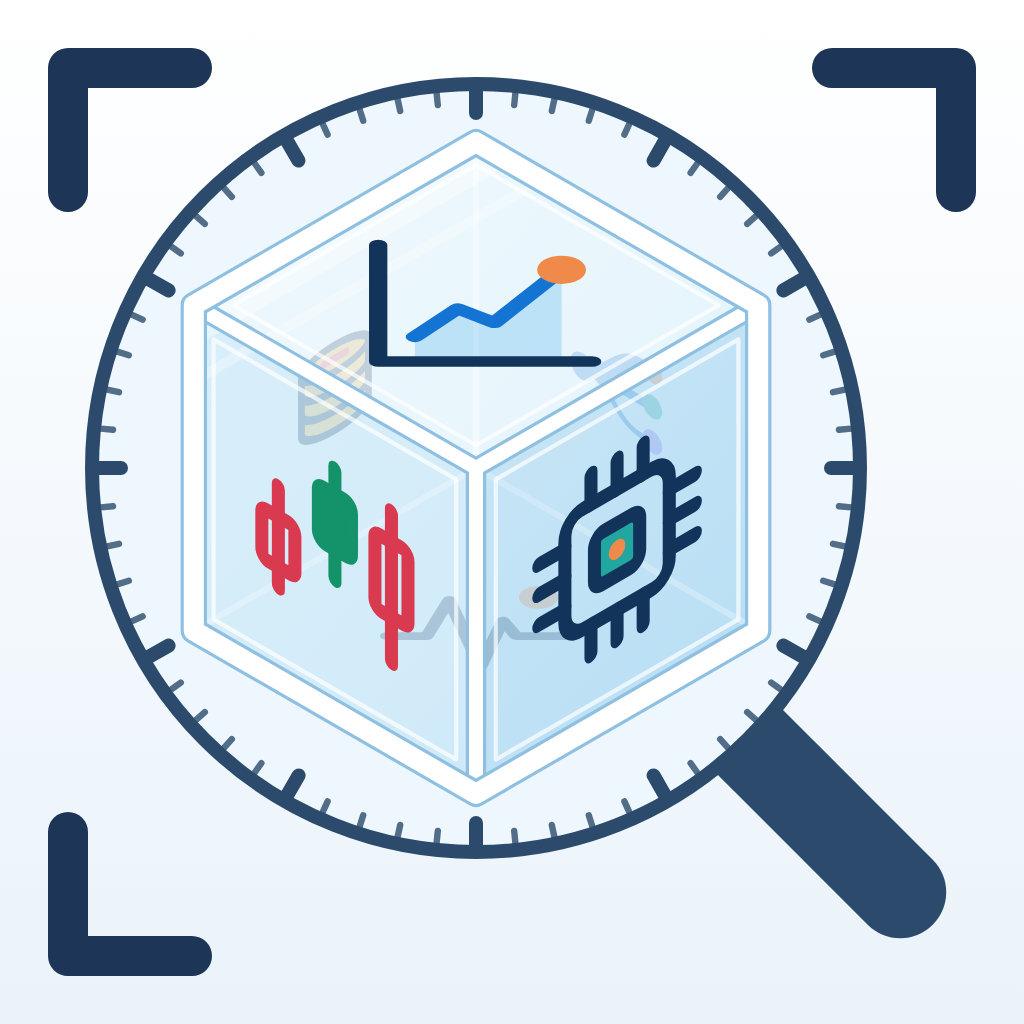
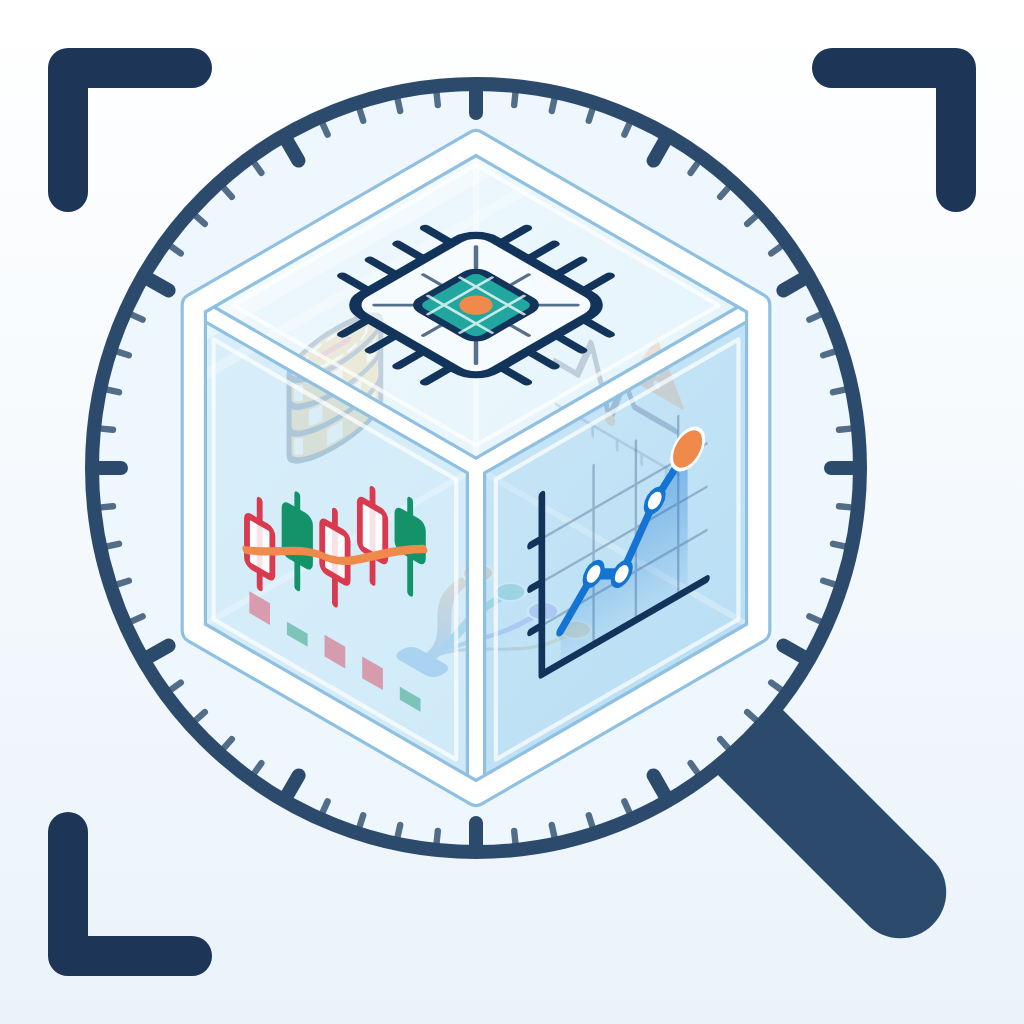
行銷：第十七輪〈股立方〉立方轉正、刻度圈當鏡片＋同色把手、外框同內部稜線風格、面位置互換、貼面角度校正、細節版圖示（滿版）
Claude-Session: https://claude.ai/code/session_012KwvcGV2Non4TXRandryJJ

Changed region(s): [[0.2188, 0.2188, 0.6875, 0.6875]]

diff --git a/docs/brand/v17/_gen.py b/docs/brand/v17/_gen.py
@@ -8,8 +8,9 @@ import math, os, importlib.util
 HERE = os.path.dirname(os.path.abspath(__file__))
 _spec = importlib.util.spec_from_file_location('v16', os.path.join(HERE, '..', 'v16', '_gen.py'))
 v16 = importlib.util.module_from_spec(_spec); _spec.loader.exec_module(v16)   # v16 → v15 → v14 → v13，都只載入函式
-Cube, pts, shrink, hexagon, glyph, place = v16.Cube, v16.pts, v16.shrink, v16.hexagon, v16.glyph, v16.place
-FRONT, BACK = v16.FRONT, v16.BACK   # 上＝基本、左＝技術、右＝產業；背面：左上＝籌碼、右上＝資金、底＝事件（配色同 v15）
+Cube, pts, shrink, hexagon = v16.Cube, v16.pts, v16.shrink, v16.hexagon
+GLY = v16.v15.GLY            # 配色延用 v15（藍 #1474d3、橘 #f08a4b、青綠 #22a6a0、紫 #7b6cf0、金 #e7b04a、紅漲綠跌）
+NAVY = GLY['ink']
 
 # ---------- 規格（512 畫布；PNG 輸出 1024 = 2 倍）----------
 W = 512
@@ -44,6 +45,106 @@ def defs(u):
     return '<defs>' + ''.join(d) + '</defs>'
 
 
+
+# ---------- 細節版六面圖示（第十七輪，只用在立方上；v13 的 line／badge 不動）----------
+# 一樣畫在 24×24 格子，由貼面的 matrix() 整組仿射變形，所以細節會跟著面一起斜。
+# 線寬寫在每個元素上（格子單位）：主線 1.5、細節 0.5～1.1。
+def _band(cx, y0, rx, ry, t, a0, a1, k=10):
+    top = [(cx - rx*math.cos(a0 + (a1-a0)*i/k), y0 + ry*math.sin(a0 + (a1-a0)*i/k)) for i in range(k+1)]
+    return 'M' + ' L'.join(f'{x:.2f} {y:.2f}' for x, y in top + [(x, y + t) for x, y in reversed(top)]) + 'Z'
+
+
+def chip_d(u):    # 產業面：晶片（每邊 4 支針腳、內方塊青綠＋細線路格紋、中心橘點）
+    o = [f'<path d="' + ''.join(f'M{t:.2f} 5V2.2M{t:.2f} 19V21.8M5 {t:.2f}H2.2M19 {t:.2f}H21.8' for t in (7.6, 10.53, 13.47, 16.4)) + f'" stroke="{NAVY}" stroke-width="1.3" stroke-linecap="round"/>',
+         f'<rect x="5" y="5" width="14" height="14" rx="2" fill="#ffffff" fill-opacity=".55" stroke="{NAVY}" stroke-width="1.5"/>',
+         # 外圈細線路：從內方塊四角拉到本體四角附近
+         f'<path d="M8.6 8.6L6.6 6.6M15.4 8.6L17.4 6.6M8.6 15.4L6.6 17.4M15.4 15.4L17.4 17.4M12 8.6V6.4M12 15.4V17.6M8.6 12H6.4M15.4 12H17.6" stroke="{NAVY}" stroke-width=".55" stroke-linecap="round" opacity=".7"/>',
+         f'<rect x="8.6" y="8.6" width="6.8" height="6.8" rx="1" fill="{GLY["core"]}" stroke="{NAVY}" stroke-width="1.1"/>',
+         f'<path d="M10.3 8.6V15.4M13.7 8.6V15.4M8.6 10.3H15.4M8.6 13.7H15.4" stroke="#ffffff" stroke-width=".45" opacity=".75"/>',   # 晶粒格紋
+         f'<circle cx="12" cy="12" r="1.25" fill="{GLY["hot"]}"/>']
+    return o
+
+
+def fund_d(u):    # 基本面：走勢圖（淡格線、漸層面積、資料點、末端橘點；軸線收細）
+    pts_ = [(6, 16.5), (9.5, 13), (12.5, 14.5), (16, 9.5), (19.5, 6.5)]
+    line = ' '.join(f'{x},{y}' for x, y in pts_)
+    o = [f'<defs><linearGradient id="{u}area" x1="0" y1="6" x2="0" y2="20" gradientUnits="userSpaceOnUse"><stop offset="0" stop-color="{GLY["trend"]}" stop-opacity=".45"/><stop offset="1" stop-color="{GLY["trend"]}" stop-opacity=".04"/></linearGradient></defs>',
+         f'<path d="M4 7H21.5M4 11H21.5M4 15H21.5M9.5 3V19.5M14 3V19.5M18.5 3V19.5" stroke="{NAVY}" stroke-width=".4" opacity=".28"/>',
+         f'<polygon points="{line} 19.5,19.5 6,19.5" fill="url(#{u}area)"/>',
+         f'<path d="M4 3V19.5H21.5M2.8 7H4M2.8 11H4M2.8 15H4" stroke="{NAVY}" stroke-width="1.15" stroke-linecap="round" stroke-linejoin="round" fill="none"/>',
+         f'<polyline points="{line}" fill="none" stroke="{GLY["trend"]}" stroke-width="1.5" stroke-linecap="round" stroke-linejoin="round"/>']
+    o += [f'<circle cx="{x}" cy="{y}" r=".95" fill="#ffffff" stroke="{GLY["trend"]}" stroke-width=".7"/>' for x, y in pts_[1:4]]
+    o.append(f'<circle cx="19.5" cy="6.5" r="1.7" fill="{GLY["hot"]}" stroke="#ffffff" stroke-width=".5"/>')
+    return o
+
+
+def candle_d(u):  # 技術面：5 根 K 棒＋橘色均線＋底部量能（紅漲綠跌：紅＝漲、綠＝跌）
+    K = [(4, 11.5, 19.5, 13.5, 18, True), (8, 9, 17.5, 10.5, 15, False), (12, 8.5, 17, 10, 14.5, True),
+         (16, 4.5, 13, 6, 10.5, True), (20, 3.5, 12, 5, 8.5, False)]
+    o = []
+    for x, w0, w1, b0, b1, up in K:
+        col = GLY['rise'] if up else GLY['fall']
+        o.append(f'<path d="M{x} {w0}V{w1}" stroke="{col}" stroke-width="1" stroke-linecap="round"/>')
+        o.append(f'<rect x="{x - 1.35}" y="{b0}" width="2.7" height="{b1 - b0}" rx=".45" fill="{"#ffffff" if up else col}" fill-opacity="{.85 if up else 1}" stroke="{col}" stroke-width="1"/>')
+        o.append(f'<rect x="{x - 1.1}" y="{22.4 - (2 if up else 1.2)}" width="2.2" height="{2 if up else 1.2}" fill="{col}" opacity=".45"/>')   # 量能
+    o.append(f'<path d="M2.5 16.8C6 15.5 8 13.6 11 13.2S16 10 21.5 7.2" fill="none" stroke="{GLY["hot"]}" stroke-width="1.1" stroke-linecap="round"/>')   # 均線
+    return o
+
+
+def flow_d(u):    # 資金面：分流圖（一個來源、4 條粗細不同的曲線、終點多色、曲線帶漸層）
+    ends = [(4, 2.6, GLY['n1']), (9.3, 1.9, GLY['n2']), (14.7, 1.4, GLY['n3']), (20, 1.0, GLY['chip'])]
+    o = ['<defs>' + ''.join(f'<linearGradient id="{u}f{i}" x1="3.5" y1="0" x2="19" y2="0" gradientUnits="userSpaceOnUse"><stop offset="0" stop-color="{GLY["flowline"]}"/><stop offset="1" stop-color="{c}"/></linearGradient>' for i, (_, _, c) in enumerate(ends)) + '</defs>']
+    for i, (y, w, c) in enumerate(ends):
+        o.append(f'<path d="M3.5 12C10.5 12 11 {y} 18.6 {y}" fill="none" stroke="url(#{u}f{i})" stroke-width="{w}" stroke-linecap="round"/>')
+    for y, w, c in ends:
+        o.append(f'<circle cx="20.3" cy="{y}" r="1.8" fill="{c}" stroke="#ffffff" stroke-width=".55"/>')
+    o.append(f'<rect x="1.6" y="8.6" width="3.2" height="6.8" rx="1.3" fill="{GLY["flowline"]}"/>')   # 來源節點（桑基圖的直條）
+    return o
+
+
+def chips_d(u):   # 籌碼面：一疊三片（「原來那樣」）＋賭場籌碼側邊的白色色塊、頂面虛線內圈與紅色強調線
+    o = []
+    RX, RY = 7.5, 2.6
+    for i, y in enumerate((14.1, 10.3, 6.5)):     # 由下往上畫，上層蓋住下層
+        o.append(f'<path d="M4.5 {y} v3.8 A{RX} {RY} 0 0 0 19.5 {y + 3.8:.1f} V{y}" fill="{GLY["chip"]}" stroke="{NAVY}" stroke-width="1.3" stroke-linejoin="round"/>')
+        # 每片側邊三塊白色色塊；上下片錯開（偶數片在中間與兩側、奇數片在中間兩側）
+        centers = (.62, math.pi/2, math.pi - .62) if i % 2 == 0 else (1.12, math.pi - 1.12)
+        d = ''.join(_band(12, y + .75, RX - .1, RY, 2.3, c - .17, c + .17) for c in centers)
+        o.append(f'<path d="{d}" fill="#ffffff" opacity=".92"/>')
+    o.append(f'<ellipse cx="12" cy="6.5" rx="{RX}" ry="{RY}" fill="{GLY["chip"]}" stroke="{NAVY}" stroke-width="1.3"/>')
+    o.append(f'<ellipse cx="12" cy="6.5" rx="5.2" ry="1.75" fill="none" stroke="#ffffff" stroke-width=".7" stroke-dasharray="1.3 1"/>')
+    o.append(f'<path d="M9.8 6.5h4.4" stroke="{GLY["chipacc"]}" stroke-width="1.3" stroke-linecap="round"/>')
+    return o
+
+
+def event_d(u):   # 事件面：脈衝線＋橘色驚嘆號警示三角＋底部時間軸刻度
+    return [f'<path d="M2 19.5H22M4 19.5V21M8 19.5V21M12 19.5V21M16 19.5V21M20 19.5V21" stroke="{NAVY}" stroke-width=".7" stroke-linecap="round" opacity=".6"/>',
+            f'<polyline points="2,13.5 5.5,13.5 7.8,8 10.8,17.2 13.2,10.5 14.8,13.5 21.5,13.5" fill="none" stroke="{NAVY}" stroke-width="1.5" stroke-linecap="round" stroke-linejoin="round"/>',
+            f'<circle cx="10.8" cy="17.2" r=".9" fill="{GLY["hot"]}"/>',
+            f'<path d="M18.5 2.4L22.6 9.6H14.4Z" fill="{GLY["hot"]}" stroke="{GLY["hot"]}" stroke-width="1" stroke-linejoin="round"/>',
+            f'<path d="M18.5 4.7V7" stroke="#ffffff" stroke-width="1" stroke-linecap="round"/><circle cx="18.5" cy="8.5" r=".55" fill="#ffffff"/>']
+
+
+# 第十七輪補充：頂面＝產業（晶片）、右面＝基本（走勢圖）、左面＝技術；背面：左上＝籌碼、右上＝事件、底＝資金
+FRONT = {'top': chip_d, 'left': candle_d, 'right': fund_d}
+BACK = {'bl': chips_d, 'br': event_d, 'bottom': flow_d}
+
+
+def place(cb, k, front):
+    """每一面都沿「該面的兩組邊」貼（v14 Cube.matrix）：圖示的水平線平行於一組邊、垂直線平行於另一組邊。
+    頂面不再用 v14／v16 的對角線貼法（那會讓線條跟菱形邊差 30°，Andy 抓到的落差就是這個）"""
+    return cb.matrix(k, .1 if front else .24)
+
+
+SWK = .62   # 立方的面比 24 格大約放大 5.4 倍，24 格的線寬直接用會太粗：所有 stroke-width 統一乘這個係數
+
+
+def glyph(fn, u):
+    import re
+    body = re.sub(r'stroke-width="([0-9.]+)"', lambda m: f'stroke-width="{float(m.group(1))*SWK:.2f}"', ''.join(fn(u)))
+    return f'<g fill="none" stroke-linecap="round" stroke-linejoin="round">' + body + '</g>'
+
+
 def white_line(d, w, closed=False):
     """立方的稜線筆觸：先一條淡藍細描邊（兩側各 EDGE），再一條白線。內部 Y 稜與六角外輪廓都用這一支，所以是同一套線條"""
     j = 'stroke-linejoin="round"' + ('' if closed else ' stroke-linecap="round"')
@@ -56,7 +157,7 @@ def cube(cb, u, yw=7, sw=1.5):
     C = cb.C
     o = [f'<polygon points="{pts(cb.hex)}" fill="url(#{u}glass)" fill-opacity="{P["base_op"]}"/>']
     for k, fn in BACK.items():
-        o.append(f'<g opacity="{P["back_op"]}" transform="{place(cb, k, False)}">{glyph(fn, sw)}</g>')
+        o.append(f'<g opacity="{P["back_op"]}" transform="{place(cb, k, False)}">{glyph(fn, u + k)}</g>')
     o.append(f'<path d="M{C[0]:.1f} {C[1]:.1f}L{cb.T[0]:.1f} {cb.T[1]:.1f}M{C[0]:.1f} {C[1]:.1f}L{cb.LL[0]:.1f} {cb.LL[1]:.1f}M{C[0]:.1f} {C[1]:.1f}L{cb.LR[0]:.1f} {cb.LR[1]:.1f}" '
              f'stroke="{P["hi"]}" stroke-width="{yw*.45:.1f}" stroke-opacity="{P["hidden_op"]}" stroke-linecap="round"/>')
     for k in ('top', 'left', 'right'):
@@ -72,7 +173,7 @@ def cube(cb, u, yw=7, sw=1.5):
     o.append(f'<g clip-path="url(#{u}clip)"><polygon points="{pts(band(R*.84, 14))}" fill="#ffffff" opacity=".4"/>'
              f'<polygon points="{pts(band(R*.68, 5))}" fill="#ffffff" opacity=".3"/></g>')
     for k, fn in FRONT.items():
-        o.append(f'<g transform="{place(cb, k, True)}">{glyph(fn, sw)}</g>')
+        o.append(f'<g transform="{place(cb, k, True)}">{glyph(fn, u + k)}</g>')
     # 內部 Y 稜與六角外輪廓：同一支 white_line
     y = (f'M{C[0]:.1f} {C[1]:.1f}L{cb.UL[0]:.1f} {cb.UL[1]:.1f}M{C[0]:.1f} {C[1]:.1f}L{cb.UR[0]:.1f} {cb.UR[1]:.1f}'
          f'M{C[0]:.1f} {C[1]:.1f}L{cb.B[0]:.1f} {cb.B[1]:.1f}')
